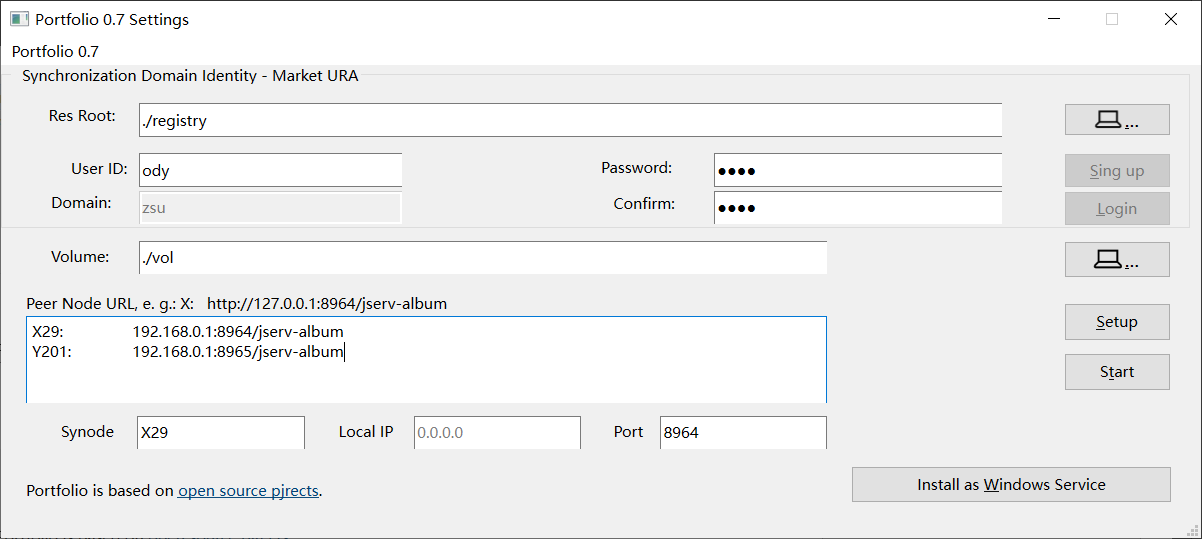
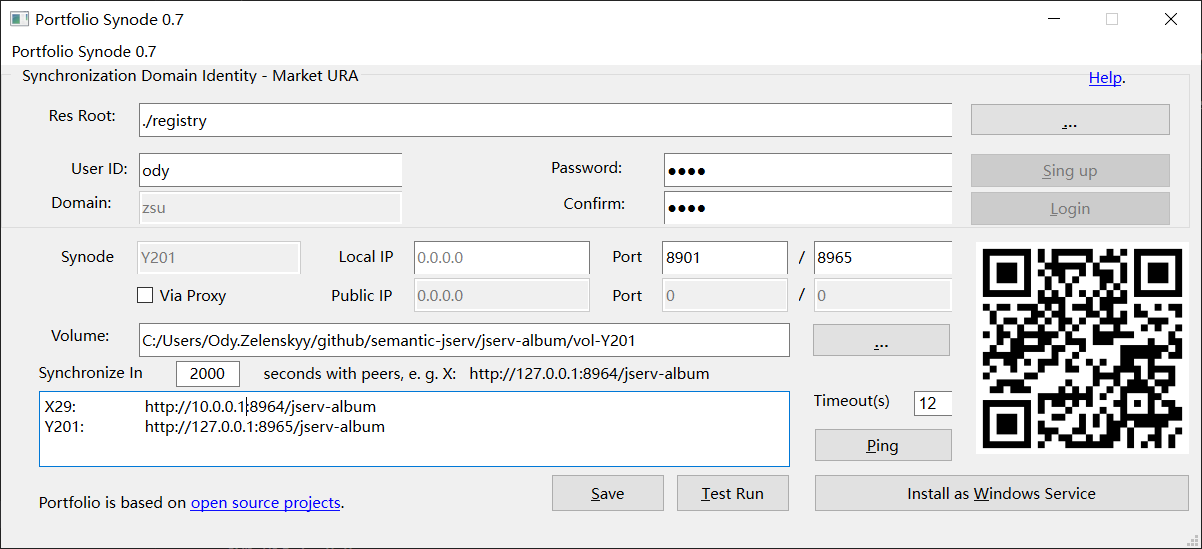
portfolio 0.7.5

diff --git a/products/portfolio/searchindex.js b/products/portfolio/searchindex.js
@@ -1,1 +1,1 @@
-Search.setIndex({"alltitles":{"About":[[0,null]],"About File Synchronization":[[3,null]],"About Volume":[[0,"about-volume"]],"Acceptance of terms":[[7,"acceptance-of-terms"]],"Android App Permissions":[[7,"android-app-permissions"]],"Android Client:":[[1,null],[8,null]],"Contacting Us":[[7,"contacting-us"]],"Contents:":[[6,null]],"Credits":[[5,null]],"Devices must be Identically Registered":[[3,"devices-must-be-identically-registered"]],"Does Protfolio use \u2018cookies\u2019?":[[7,"does-protfolio-use-cookies"]],"Download":[[0,"download"]],"EXIF & Geolocation":[[7,"exif-geolocation"]],"Indices and tables":[[6,"indices-and-tables"]],"Install Portfolio-synode":[[9,null]],"Install Steps":[[9,"install-steps"]],"Log Data":[[7,"log-data"]],"Portfolio Android Demo":[[1,null]],"Portfolio Privacy Policy":[[7,null]],"Portfolio Synode (Demo)":[[8,null]],"Prerequisit":[[2,"prerequisit"],[9,"prerequisit"]],"Quick Start":[[2,null]],"Safeguards and Third-party disclosure":[[7,"safeguards-and-third-party-disclosure"]],"Setup Protfolio Android":[[2,"setup-protfolio-android"]],"Some videos are not showing":[[4,"some-videos-are-not-showing"]],"Test in Browser":[[9,"test-in-browser"]],"Troubleshootings":[[4,null],[10,null]],"Uninstall Portfolio-synode":[[9,"uninstall-portfolio-synode"]],"Uninstall Windows Service Manually":[[9,"uninstall-windows-service-manually"]],"Upload files":[[2,"upload-files"]],"Welcome to Portfolio documentation!":[[6,null]]},"docnames":["about-download","android/index","android/quick-start","android/synode","android/trouble","credits","index","privacy-policy","synode/index","synode/setup","synode/trouble"],"envversion":{"sphinx":65,"sphinx.domains.c":3,"sphinx.domains.changeset":1,"sphinx.domains.citation":1,"sphinx.domains.cpp":9,"sphinx.domains.index":1,"sphinx.domains.javascript":3,"sphinx.domains.math":2,"sphinx.domains.python":4,"sphinx.domains.rst":2,"sphinx.domains.std":2},"filenames":["about-download.rst","android\\index.rst","android\\quick-start.rst","android\\synode.rst","android\\trouble.rst","credits.rst","index.rst","privacy-policy.rst","synode\\index.rst","synode\\setup.rst","synode\\trouble.rst"],"indexentries":{},"objects":{},"objnames":{},"objtypes":{},"terms":{"":[0,3,7,9],"0":[0,2,7,9],"04":10,"05":7,"1":[5,9],"10":4,"12":5,"127":9,"17":[2,5,9],"179274":10,"2":9,"2016":5,"2025":7,"24":10,"264":4,"3":[2,9,10],"4":[5,9],"6128543":7,"7":[0,2,7,9],"8":5,"8900":9,"8964":9,"9":[2,9,10],"A":[0,3,4],"And":9,"By":7,"For":[9,10],"If":[7,9,10],"In":[2,9],"It":9,"Or":9,"The":[2,3,4,7,9],"Then":9,"There":9,"These":7,"To":[7,9,10],"about":[1,6,7],"abov":7,"access":[7,9],"accord":7,"actur":9,"ad":7,"add":2,"address":7,"administr":[2,9],"admob":7,"adsens":7,"advanc":7,"advertis":7,"after":7,"agre":[0,7],"ahndord":4,"album":[2,7,9],"all":[3,7],"allow":[7,10],"alon":9,"also":[0,3,7,9],"although":0,"alwai":7,"an":[0,2,7],"analyt":7,"android":[0,4,5,6,9],"ani":[7,9],"anoth":0,"anson":[9,10],"answer":7,"anymor":9,"anywher":7,"apach":5,"app":0,"applic":7,"appropri":7,"apt":9,"ar":[0,1,3,7,9],"argument":9,"ask":[7,9],"audio":7,"automat":3,"avail":9,"avoid":10,"awar":9,"back":2,"bash":9,"been":[3,7],"behind":9,"being":7,"below":[7,9],"better":[4,7],"between":3,"bin":9,"brows":7,"browser":[4,7,8],"built":5,"button":[2,9],"call":[3,7],"camera":7,"can":[0,3,7,9,10],"cannot":4,"captur":7,"care":0,"carefulli":7,"case":7,"caus":0,"cd":9,"chang":[0,3,7,9],"check":[7,9],"clear":7,"cli":9,"click":9,"client":[0,2,3,7,9],"cmd":9,"code":[7,9,10],"codec":4,"collect":7,"com":7,"come":4,"command":[9,10],"commit":7,"compil":7,"compli":7,"comput":[0,2],"concern":7,"configur":[7,9,10],"confirm":9,"connect":[7,9],"consid":3,"context":7,"continu":7,"control":9,"convert":4,"copyright":5,"correctli":7,"could":10,"credit":6,"current":[0,7,9],"daemon":5,"data":[0,9],"databas":[3,7],"date":7,"default":9,"defend":10,"delet":9,"demo":[0,6,7,9],"deploi":2,"describ":7,"design":[3,7],"detail":7,"develop":9,"devic":[1,2,7],"dialog":9,"dir":9,"discurag":10,"distinguish":2,"distinguishd":3,"do":[0,7],"doc":10,"docker":5,"document":[0,5,9],"doesn":7,"domain":2,"don":[0,9],"download":[6,9],"dure":9,"e":[4,7,9,10],"each":[7,9],"ee8":5,"en":7,"enabl":10,"enforc":7,"ensur":7,"error":[7,10],"everyth":9,"except":7,"excut":2,"exiftool":[5,9],"experi":7,"export":10,"extern":7,"extra":10,"fail":10,"famili":[2,7],"featur":7,"field":9,"file":[0,1,7,9],"filepick":5,"filewal":10,"find":10,"firewal":[9,10],"floder":9,"folder":[0,9],"follow":[7,9],"format":7,"foundat":5,"free":5,"freewar":5,"from":[2,3,7,9,10],"full":[3,7],"fulli":10,"function":[7,9],"further":7,"futur":[4,9],"g":[4,7,9,10],"get":7,"glide":5,"gmail":7,"go":[2,9],"googl":7,"grant":7,"group":7,"gtk_path":10,"guarante":7,"gui":9,"h":4,"h30":4,"ha":[3,7],"handl":7,"happen":3,"harvei":5,"have":[7,9,10],"help":7,"henc":7,"here":0,"hhuawei":4,"hidden":9,"hl":7,"home":[2,4,9],"how":[2,7],"howev":7,"html":9,"http":[7,9,10],"hvc1":4,"i":[0,2,3,4,5,7,9,10],"id":[2,3,9],"ident":1,"identifi":7,"imag":[5,7],"import":7,"includ":[0,7],"index":[6,10],"indic":7,"individu":7,"inform":7,"instal":[2,7,8,10],"intend":7,"internet":7,"ip":7,"issu":9,"its":[3,7],"j":5,"jar":9,"java":9,"jdk":[2,5,9],"jetti":5,"jserv":[2,9],"json":9,"know":7,"last":7,"lastest":9,"law":7,"leav":9,"licens":[0,5],"like":[4,9,10],"linux":[9,10],"list":9,"listen":9,"loader":5,"locat":[0,7,9],"login":[2,9],"m":[9,10],"mai":7,"make":[9,10],"manag":[0,7],"manual":8,"march":7,"market":7,"materi":5,"media":7,"menu":9,"metadata":7,"microsoft":10,"mobil":3,"mode":3,"modif":0,"modul":[6,9,10],"most":4,"move":0,"mozilla":5,"multityp":5,"must":[0,1,2,9],"name":[2,3,7,9],"necessari":7,"need":9,"network":[7,10],"new":[3,7],"node":[0,3,5,9],"non":[7,9],"none":10,"notic":7,"now":9,"number":9,"odi":7,"offlin":3,"ok":9,"onc":[2,4,9],"onli":[3,7,9,10],"onlin":7,"open":[2,4,5,9],"oper":7,"optim":7,"option":7,"org":10,"other":7,"otherwis":7,"our":7,"outsid":7,"own":7,"packag":[9,10],"page":[2,4,6,9],"panel":9,"pars":7,"part":7,"password":[2,9],"path":[3,9],"pdf":5,"peopl":7,"perform":7,"period":7,"permiss":9,"person":[0,2,5,7],"phil":5,"phone":7,"photo":7,"photoview":5,"pii":7,"pip":[9,10],"pip3":10,"place":7,"plai":7,"plan":7,"pleas":[2,7,9,10],"polici":6,"port":[9,10],"portfolio":[0,2,3,4,5,10],"posit":7,"prerequisit":[1,8],"previou":10,"principl":7,"privaci":6,"privat":2,"process":[7,9],"product":7,"program":2,"project":[5,9],"properti":7,"protect":7,"protfolio":[0,1,9],"protocol":7,"provid":7,"publish":10,"purpos":7,"put":7,"py":9,"py3":[9,10],"pypi":10,"python":[2,9,10],"python3":[9,10],"qr":[7,9],"question":7,"quick":1,"react":5,"read":7,"reason":4,"recognit":7,"recommend":[4,9],"record":7,"refer":7,"refresh":9,"regard":7,"regist":[1,9],"registri":9,"regularli":7,"reinstal":3,"relea":9,"releas":[2,7],"remov":10,"replac":9,"report":[7,10],"request":7,"requir":[2,7,9,10],"resourc":3,"responsibli":7,"restor":3,"result":[0,10],"revis":7,"right":7,"run":[0,2,9,10],"safe":9,"safeti":7,"sai":9,"satisfi":10,"save":[0,7,9],"scan":[7,9],"search":6,"section":7,"secur":7,"see":[2,9],"select":2,"sell":7,"sent":7,"separ":9,"seric":9,"serv":7,"server":[0,2,5,7,9],"servic":[0,2,7,8],"set":[0,2,7,10],"setup":[1,9],"share":7,"should":9,"show":[1,9],"side":7,"simpl":10,"singl":7,"so":7,"softwar":0,"sole":7,"solut":4,"some":[1,9],"sourc":[2,5],"specifi":[0,9],"src":9,"srv":9,"srvname":9,"stand":9,"start":[1,9],"startup":9,"state":7,"statist":7,"step":8,"still":[0,9,10],"storag":7,"store":7,"strongli":10,"successfulli":[2,9],"sudo":9,"sum":7,"support":[4,7],"sure":[9,10],"switch":0,"synchron":[0,1,5,7,9],"synod":[2,3,6,10],"synode_py3":9,"synodepy3":9,"system":[0,7],"t":[0,7,9],"take":0,"tap":2,"tcp":9,"team":7,"termin":[9,10],"termnial":9,"test":[8,10],"thei":7,"thi":[2,4,7,9,10],"those":7,"through":7,"time":[7,9],"tomcat":5,"top":9,"trade":7,"transfer":7,"transmiss":7,"treat":7,"troubleshoot":[1,8,9],"try":7,"two":9,"ubuntu":10,"ui":[5,9],"understand":7,"uninstal":[8,10],"uniqu":2,"unless":7,"unspecifi":0,"untouch":9,"unzip":9,"up":[0,2,7],"updat":[4,7],"upload":[0,1,7,9],"url":[9,10],"us":[2,3,4,9],"usag":7,"user":[0,2,7,9],"usual":[0,2],"util":7,"v":[0,9,10],"variou":2,"ver":9,"version":[0,4,7,9,10],"video":[1,7],"viewer":5,"visit":9,"volum":9,"wa":7,"want":7,"we":7,"web":[4,7,9],"webpag":9,"were":9,"what":7,"when":7,"whenev":7,"where":9,"which":[0,2,4,7,9,10],"while":[0,9],"whl":9,"who":7,"window":[7,8,10],"within":0,"won":7,"work":[3,4,7,9],"x29":9,"you":[0,7,9,10],"your":[7,9,10],"zhou":7,"zip":[2,9],"zxing":5},"titles":["About","Portfolio Android Demo","Quick Start","About File Synchronization","Troubleshootings","Credits","Welcome to Portfolio documentation!","Portfolio Privacy Policy","Portfolio Synode (Demo)","Install Portfolio-synode","Troubleshootings"],"titleterms":{"about":[0,3],"accept":7,"android":[1,2,7,8],"app":7,"ar":4,"browser":9,"client":[1,8],"contact":7,"content":6,"cooki":7,"credit":5,"data":7,"demo":[1,8],"devic":3,"disclosur":7,"document":6,"doe":7,"download":0,"exif":7,"file":[2,3],"geoloc":7,"ident":3,"indic":6,"instal":9,"log":7,"manual":9,"must":3,"parti":7,"permiss":7,"polici":7,"portfolio":[1,6,7,8,9],"prerequisit":[2,9],"privaci":7,"protfolio":[2,7],"quick":2,"regist":3,"safeguard":7,"servic":9,"setup":2,"show":4,"some":4,"start":2,"step":9,"synchron":3,"synod":[8,9],"tabl":6,"term":7,"test":9,"third":7,"troubleshoot":[4,10],"u":7,"uninstal":9,"upload":2,"us":7,"video":4,"volum":0,"welcom":6,"window":9}})
+Search.setIndex({"alltitles":{"About":[[0,null]],"About File Synchronization":[[3,null]],"About Volume":[[0,"about-volume"]],"Acceptance of terms":[[7,"acceptance-of-terms"]],"Android App Permissions":[[7,"android-app-permissions"]],"Android Client:":[[1,null],[8,null]],"Contacting Us":[[7,"contacting-us"]],"Contents:":[[6,null]],"Credits":[[5,null]],"Devices must be Identically Registered":[[3,"devices-must-be-identically-registered"]],"Does Protfolio use \u2018cookies\u2019?":[[7,"does-protfolio-use-cookies"]],"Download":[[0,"download"]],"EXIF & Geolocation":[[7,"exif-geolocation"]],"Indices and tables":[[6,"indices-and-tables"]],"Install Portfolio-synode":[[9,null]],"Log Data":[[7,"log-data"]],"Portfolio Android Demo":[[1,null]],"Portfolio Privacy Policy":[[7,null]],"Portfolio Synode (Demo)":[[8,null]],"Prerequisit":[[2,"prerequisit"],[9,"prerequisit"]],"Quick Start":[[2,null]],"Safeguards and Third-party disclosure":[[7,"safeguards-and-third-party-disclosure"]],"Setting up Synodes":[[9,"setting-up-synodes"]],"Setup Protfolio Android":[[2,"setup-protfolio-android"]],"Some videos are not showing":[[4,"some-videos-are-not-showing"]],"Test in Browser":[[9,"test-in-browser"]],"The Topology":[[0,"the-topology"]],"Troubleshootings":[[4,null],[10,null]],"Uninstall Portfolio-synode":[[9,"uninstall-portfolio-synode"]],"Uninstall Windows Service Manually":[[9,"uninstall-windows-service-manually"]],"Upload files":[[2,"upload-files"]],"Welcome to Portfolio documentation!":[[6,null]]},"docnames":["about-download","android/index","android/quick-start","android/synode","android/trouble","credits","index","privacy-policy","synode/index","synode/setup","synode/trouble"],"envversion":{"sphinx":65,"sphinx.domains.c":3,"sphinx.domains.changeset":1,"sphinx.domains.citation":1,"sphinx.domains.cpp":9,"sphinx.domains.index":1,"sphinx.domains.javascript":3,"sphinx.domains.math":2,"sphinx.domains.python":4,"sphinx.domains.rst":2,"sphinx.domains.std":2},"filenames":["about-download.rst","android\\index.rst","android\\quick-start.rst","android\\synode.rst","android\\trouble.rst","credits.rst","index.rst","privacy-policy.rst","synode\\index.rst","synode\\setup.rst","synode\\trouble.rst"],"indexentries":{},"objects":{},"objnames":{},"objtypes":{},"terms":{"":[0,3,7,9],"0":[0,2,7,9],"04":10,"05":7,"1":[5,9],"10":[4,9],"12":5,"127":9,"17":[2,5,9],"179274":10,"2":[0,9],"20":9,"2016":5,"2025":7,"24":10,"264":4,"3":[2,9,10],"4":[5,9],"5":9,"6128543":7,"7":[0,2,7,9],"8":5,"8900":9,"8964":9,"9":[2,9,10],"A":[0,3,4],"And":9,"By":7,"For":[9,10],"If":[7,9,10],"In":[0,2,9],"It":9,"No":9,"Or":9,"The":[2,3,4,7,9],"Then":9,"There":[0,9],"These":7,"To":[7,9,10],"With":0,"about":[1,6,7,9],"abov":7,"access":[0,7,9],"accord":7,"accordingli":9,"actur":9,"ad":7,"add":2,"address":[7,9],"administr":[2,9],"admob":7,"adsens":7,"advanc":7,"advertis":7,"after":7,"agre":[0,7],"ahndord":4,"album":[2,7,9],"all":[3,7],"allow":[7,10],"alon":9,"also":[0,3,7,9],"although":0,"alwai":7,"an":[0,2,7],"analyt":7,"android":[0,4,5,6,9],"ani":[0,7,9],"anoth":0,"anson":[9,10],"answer":7,"anymor":9,"anywher":7,"apach":5,"app":0,"applic":7,"appropri":7,"apt":9,"ar":[0,1,3,7,9],"argument":9,"ask":[7,9],"audio":7,"autmat":[0,9],"automat":3,"avail":[0,9],"avoid":10,"awar":9,"back":2,"backbon":0,"background":0,"bash":9,"been":[3,7],"behind":9,"being":7,"below":[7,9],"better":[4,7],"between":[0,3],"bin":9,"brows":7,"browser":[4,7,8],"built":5,"button":[2,9],"call":[3,7],"camera":7,"can":[0,3,7,9,10],"cannot":4,"captur":7,"care":[0,9],"carefulli":7,"case":7,"caus":0,"cd":9,"central":[0,9],"chang":[0,3,7,9],"check":[7,9],"clear":7,"cli":9,"click":9,"client":[0,2,3,7,9],"cmd":9,"code":[7,9,10],"codec":4,"collect":7,"com":7,"come":4,"command":[9,10],"commit":7,"compil":7,"compli":7,"comput":[0,2],"concern":7,"configur":[7,9,10],"confirm":9,"connect":[0,7,9],"consid":3,"context":7,"continu":7,"control":9,"convert":4,"copyright":5,"correctli":[7,9],"could":10,"credit":6,"current":[0,7,9],"daemon":5,"data":[0,9],"databas":[0,3,7],"date":7,"default":9,"defend":10,"delet":9,"demo":[0,6,7,9],"deploi":[0,2],"describ":7,"design":[3,7],"detail":7,"detect":9,"develop":9,"devic":[1,2,7,9],"dialog":9,"dir":9,"discurag":10,"distinguish":2,"distinguishd":3,"do":[0,7],"doc":10,"docker":5,"document":[0,5,9],"doesn":7,"domain":[0,2],"don":[0,9],"download":[6,9],"dure":9,"e":[4,7,9,10],"each":[7,9],"ee8":5,"en":7,"enabl":10,"enforc":7,"ensur":7,"envar":9,"environ":0,"error":[7,10],"everyth":9,"except":7,"excut":2,"exiftool":[5,9],"experi":7,"export":10,"extern":7,"extra":10,"fail":10,"famili":[2,7],"featur":7,"field":9,"file":[0,1,7,9],"filepick":5,"filewal":10,"find":10,"firewal":[9,10],"floder":9,"folder":[0,9],"follow":[7,9],"format":[7,9],"found":9,"foundat":5,"free":5,"freewar":5,"from":[0,2,3,7,9,10],"full":[3,7],"fulli":10,"function":[7,9],"further":7,"futur":[4,9],"g":[4,7,9,10],"get":7,"glide":5,"gmail":7,"go":[2,9],"googl":7,"grant":7,"group":7,"gtk_path":10,"guarante":7,"gui":9,"h":4,"h30":4,"ha":[3,7],"handl":7,"happen":3,"harvei":5,"have":[7,9,10],"help":7,"henc":7,"here":0,"hhuawei":4,"hidden":9,"hl":7,"home":[2,4,9],"host":9,"how":[2,7],"howev":7,"html":9,"http":[7,9,10],"hub":[0,9],"hvc1":4,"i":[0,2,3,4,5,7,9,10],"id":[2,3,9],"ident":1,"identifi":7,"imag":[5,7],"import":7,"includ":[0,7],"index":[6,10],"indic":7,"individu":7,"inf":9,"inform":7,"instal":[2,7,8,10],"intend":7,"internet":[0,7,9],"ip":[7,9],"issu":9,"its":[3,7],"j":5,"jar":9,"java":9,"jdk":[2,5,9],"jetti":5,"jserv":[2,9],"json":9,"know":7,"last":7,"lastest":9,"law":7,"leav":9,"licens":[0,5],"like":[4,9,10],"line":9,"linux":[9,10],"list":9,"listen":9,"loader":5,"local":[0,9],"locat":[0,7,9],"login":[2,9],"m":[9,10],"mai":7,"make":[9,10],"manag":[0,7],"manual":8,"map":9,"march":7,"market":7,"materi":5,"mechan":0,"media":7,"menu":9,"metadata":7,"microsoft":10,"mobil":[0,3],"mode":3,"modif":0,"modifi":9,"modul":[6,9,10],"most":4,"move":0,"mozilla":5,"multipl":0,"multityp":5,"must":[0,1,2,9],"name":[2,3,7,9],"necessari":7,"need":9,"network":[0,7,10],"new":[3,7],"node":[0,3,5,9],"non":[7,9],"none":10,"notic":7,"now":9,"number":9,"odi":7,"offlin":3,"ok":9,"onc":[2,4,9],"one":0,"onli":[0,3,7,9,10],"onlin":7,"open":[2,4,5,9],"oper":7,"optim":7,"option":7,"org":10,"other":7,"otherwis":7,"our":7,"outsid":7,"own":7,"packag":[9,10],"page":[2,4,6,9],"panel":9,"pars":7,"part":7,"password":[2,9],"path":[3,9],"pdf":5,"peopl":7,"perform":7,"period":7,"permiss":9,"person":[0,2,5,7],"phil":5,"phone":7,"photo":7,"photoview":5,"pii":7,"pip":[9,10],"pip3":10,"place":7,"plai":7,"plan":7,"pleas":[2,7,9,10],"polici":6,"port":[9,10],"portfolio":[0,2,3,4,5,10],"posit":7,"prerequisit":[1,8],"previou":10,"principl":7,"privaci":6,"privat":[0,2,9],"process":[7,9],"product":7,"program":2,"project":[5,9],"properti":7,"protect":7,"protfolio":[0,1,9],"protocol":7,"provid":7,"proxi":9,"public":[0,9],"publish":10,"purpos":7,"put":7,"py":9,"py3":[9,10],"pypi":10,"python":[2,9,10],"python3":[9,10],"qr":[7,9],"question":7,"quick":1,"react":5,"read":7,"reason":4,"recognit":7,"recommend":[4,9],"record":7,"refer":7,"refresh":9,"regard":7,"regist":[1,9],"registri":9,"regularli":7,"reinstal":[3,9],"relat":0,"relea":9,"releas":[2,7],"remov":10,"replac":9,"report":[7,10],"request":7,"requir":[2,7,9,10],"resourc":3,"responsibli":7,"restor":3,"result":[0,10],"revers":9,"revis":7,"right":7,"ristric":0,"run":[0,2,9,10],"safe":9,"safeti":7,"sai":9,"sampl":9,"satisfi":10,"save":[0,7,9],"scan":[7,9],"search":6,"second":9,"section":7,"secur":7,"see":[2,9],"select":2,"sell":7,"sent":7,"separ":9,"seric":9,"serv":7,"server":[0,2,5,7,9],"servic":[0,2,7,8],"set":[0,2,7,8,10],"setup":[0,1,9],"share":7,"should":[0,9],"show":[1,9],"side":7,"simpl":10,"singl":7,"so":7,"softwar":0,"sole":7,"solut":4,"some":[1,9],"sour":9,"sourc":[2,5],"space":0,"specifi":[0,9],"src":9,"srv":9,"srvname":9,"stand":9,"start":[1,9],"startup":9,"state":7,"statist":7,"step":9,"still":[0,9,10],"storag":[0,7,9],"store":[0,7],"strongli":10,"successfulli":[2,9],"sudo":9,"sum":7,"support":[4,7],"sure":[9,10],"switch":0,"sync":9,"synchron":[0,1,5,7,9],"synod":[0,2,3,6,10],"synode_py3":9,"synodepy3":9,"system":[0,7],"t":[0,7,9],"tab":9,"take":0,"tap":2,"tcp":9,"team":7,"termin":[9,10],"termnial":9,"test":[8,10],"thei":7,"thi":[2,4,7,9,10],"those":7,"through":7,"time":[7,9],"tomcat":5,"top":9,"trade":7,"transfer":7,"transmiss":7,"treat":7,"troubleshoot":[1,8,9],"try":7,"two":9,"typic":[0,9],"ubuntu":10,"ui":[5,9],"understand":7,"uninstal":[8,10],"uniqu":2,"unless":7,"unreali":0,"unspecifi":0,"untouch":9,"unzip":9,"up":[0,2,7,8],"updat":[4,7],"upload":[0,1,7,9],"url":[9,10],"us":[0,2,3,4,9],"usag":7,"user":[0,2,7,9],"usual":[0,2],"util":7,"v":[0,9,10],"variou":2,"ver":9,"version":[0,4,7,9,10],"video":[1,7],"viewer":5,"visit":9,"volum":9,"wa":7,"want":7,"we":7,"web":[4,7,9],"webpag":9,"webroot_201":9,"were":9,"what":7,"when":7,"whenev":7,"where":9,"which":[0,2,4,7,9,10],"while":[0,9],"whl":9,"who":7,"window":[7,8,10],"winsrv":9,"within":0,"won":7,"work":[3,4,7,9],"x29":[0,9],"y201":[0,9],"you":[0,7,9,10],"your":[7,9,10],"zhou":7,"zip":[2,9],"zsu":0,"zxing":5},"titles":["About","Portfolio Android Demo","Quick Start","About File Synchronization","Troubleshootings","Credits","Welcome to Portfolio documentation!","Portfolio Privacy Policy","Portfolio Synode (Demo)","Install Portfolio-synode","Troubleshootings"],"titleterms":{"The":0,"about":[0,3],"accept":7,"android":[1,2,7,8],"app":7,"ar":4,"browser":9,"client":[1,8],"contact":7,"content":6,"cooki":7,"credit":5,"data":7,"demo":[1,8],"devic":3,"disclosur":7,"document":6,"doe":7,"download":0,"exif":7,"file":[2,3],"geoloc":7,"ident":3,"indic":6,"instal":9,"log":7,"manual":9,"must":3,"parti":7,"permiss":7,"polici":7,"portfolio":[1,6,7,8,9],"prerequisit":[2,9],"privaci":7,"protfolio":[2,7],"quick":2,"regist":3,"safeguard":7,"servic":9,"set":9,"setup":2,"show":4,"some":4,"start":2,"synchron":3,"synod":[8,9],"tabl":6,"term":7,"test":9,"third":7,"topologi":0,"troubleshoot":[4,10],"u":7,"uninstal":9,"up":9,"upload":2,"us":7,"video":4,"volum":0,"welcom":6,"window":9}})

diff --git a/products/portfolio/synode/setup.html b/products/portfolio/synode/setup.html
@@ -50,7 +50,7 @@
 <li class="toctree-l1 current"><a class="reference internal" href="index.html">Portfolio Synode (Demo)</a><ul class="current">
 <li class="toctree-l2 current"><a class="current reference internal" href="#">Install Portfolio-synode</a><ul>
 <li class="toctree-l3"><a class="reference internal" href="#prerequisit">Prerequisit</a></li>
-<li class="toctree-l3"><a class="reference internal" href="#install-steps">Install Steps</a></li>
+<li class="toctree-l3"><a class="reference internal" href="#setting-up-synodes">Setting up Synodes</a></li>
 </ul>
 </li>
 <li class="toctree-l2"><a class="reference internal" href="#test-in-browser">Test in Browser</a></li>
@@ -108,8 +108,8 @@
 </div>
 <p>Please make sure your JDK is running.</p>
 </section>
-<section id="install-steps">
-<h2>Install Steps<a class="headerlink" href="#install-steps" title="Link to this heading"></a></h2>
+<section id="setting-up-synodes">
+<h2>Setting up Synodes<a class="headerlink" href="#setting-up-synodes" title="Link to this heading"></a></h2>
 <ol class="arabic">
 <li><p>Download <a class="reference external" href="https://github.com/odys-z/semantic-jserv/releases/download/portfolio-synode-0.7.0/registry.zip">synode registry, registry.zip</a>
 from <a class="reference external" href="https://github.com/odys-z/semantic-jserv/releases/tag/portfolio-synode-0.7.0">the project’s releas page</a>.</p>
@@ -146,14 +146,31 @@ or check lastest version at
 <li><p>Click the top button for opening registry dir.</p>
 <p><em>User Id, password and Login function are not available in demo version. Leave the fields untouched.</em></p>
 </li>
-<li><p>Click <em>Setup</em> if everything is OK.</p></li>
-<li><p>Click <em>Start</em>. The data service should be running now.</p>
+<li><p>Set local web page service port and data service port, e.g. 8900/8964. The local Ip is detected autmatically.</p>
+<p>Check reverse proxy only if the host is mapped from a public Internet address.</p>
+</li>
+<li><p>Modify Jservs’ URL</p>
+<p>If is setting a public address, say central hub node, leave <em>Sync-in</em> as 0 seconds.
+No need to care about jservs, but make soure the reverse proxy is set correctly, e.g.</p>
+<div class="highlight-default notranslate"><div class="highlight"><pre><span></span><span class="mf">10.0.0.1</span>   <span class="mi">8900</span> <span class="o">/</span> <span class="mi">8964</span>
+</pre></div>
+</div>
+<p>If is setting a local service node, say your private storage device,
+set <em>Sync-in</em> to typically 20 seconds, and setting the hub nodes IP to it’s public address,
+using the data service port, e.g.</p>
+<div class="highlight-default notranslate"><div class="highlight"><pre><span></span><span class="n">X29</span><span class="p">:</span> <span class="o">&lt;</span><span class="n">tab</span><span class="o">&gt;</span>  <span class="n">http</span><span class="p">:</span><span class="o">//</span><span class="mf">10.0.0.1</span><span class="p">:</span><span class="mi">8964</span><span class="o">/</span><span class="n">jserv</span><span class="o">-</span><span class="n">album</span>
+</pre></div>
+</div>
+<p><strong>Don not change the line format</strong></p>
+</li>
+<li><p>Click <em>Save</em> if everything is OK.</p></li>
+<li><p>Click <em>Test Run</em>. The data service (Synode) should be running now.</p>
 <p>Or run “java -jar bin/jserv-album-#.#.#.jar” in the folder.</p>
 </li>
 </ul>
 <p>There should be a QR Code showing in the GUI. You can scan with a Portfolio
 client, e.g. the Portfolio Android, to connect to this service node.</p>
-<a class="reference internal image-reference" href="../_images/00-portfolio-synode.png"><img alt="../_images/00-portfolio-synode.png" src="../_images/00-portfolio-synode.png" style="width: 300px;" />
+<a class="reference internal image-reference" href="../_images/00-portfolio-synode.png"><img alt="../_images/00-portfolio-synode.png" src="../_images/00-portfolio-synode.png" style="width: 24em;" />
 </a>
 </div></blockquote>
 </li>
@@ -176,7 +193,7 @@ and port 8900, the web page server.</p>
 </div></blockquote>
 </li>
 </ul>
-<a class="reference internal image-reference" href="../_images/07-portfolio-web.png"><img alt="../_images/07-portfolio-web.png" src="../_images/07-portfolio-web.png" style="width: 300px;" />
+<a class="reference internal image-reference" href="../_images/07-portfolio-web.png"><img alt="../_images/07-portfolio-web.png" src="../_images/07-portfolio-web.png" style="width: 24em;" />
 </a>
 </div></blockquote>
 </li>
@@ -246,6 +263,18 @@ py<span class="w"> </span>-m<span class="w"> </span>src.synodepy3.cli<span class
 </li>
 <li><p>Refresh the Windows Service Control Panel if needed.</p></li>
 </ol>
+<div class="admonition tip">
+<p class="admonition-title">Tip</p>
+<p>If the WEB-INF/settings.json file is not found, reinstall the Portfolio-synode and change winsrv.synode and winsrv.web accordingly.</p>
+<p>Sample:</p>
+<div class="highlight-default notranslate"><div class="highlight"><pre><span></span><span class="s2">&quot;envars&quot;</span><span class="p">:</span> <span class="p">{</span>
+    <span class="s2">&quot;WEBROOT_201&quot;</span><span class="p">:</span> <span class="s2">&quot;Y201&quot;</span><span class="p">,</span>
+    <span class="s2">&quot;winsrv.synode&quot;</span><span class="p">:</span> <span class="s2">&quot;Synode-0.7.5-Y201&quot;</span><span class="p">,</span>
+    <span class="s2">&quot;winsrv.web&quot;</span><span class="p">:</span> <span class="s2">&quot;Synode.web-0.4.1-Y201&quot;</span>
+<span class="p">},</span>
+</pre></div>
+</div>
+</div>
 </section>
 </section>
 

diff --git a/products/portfolio/about-download.html b/products/portfolio/about-download.html
@@ -45,6 +45,7 @@
               <p class="caption" role="heading"><span class="caption-text">Contents:</span></p>
 <ul class="current">
 <li class="toctree-l1 current"><a class="current reference internal" href="#">About</a><ul>
+<li class="toctree-l2"><a class="reference internal" href="#the-topology">The Topology</a></li>
 <li class="toctree-l2"><a class="reference internal" href="#about-volume">About Volume</a></li>
 </ul>
 </li>
@@ -81,9 +82,23 @@
   <section id="about">
 <h1>About<a class="headerlink" href="#about" title="Link to this heading"></a></h1>
 <p>Portfolio is a system for manage, synchronizing personal documents, including an
-Android client App and a server node.</p>
+Android client App and multiple deployed server nodes.</p>
 <p>Protfolio is currently a demo version. Users must take care of their files
 uploaded to the server, usually a personal computer.</p>
+<section id="the-topology">
+<h2>The Topology<a class="headerlink" href="#the-topology" title="Link to this heading"></a></h2>
+<p>Typically, there should be a central hub node, which is a public server
+accessible from the Internet, and multiple service nodes, which are private servers
+running in local networks. The hub node is used for synchronizing data between service nodes,
+and the service nodes are used for storing data uploaded by clients. The hub node
+is usually available with ristricated storage space.</p>
+<p>There are also mobile clients, such as the Portfolio Android App, which can
+connect to any service nodes and upload files. Files is autmatically synchronized in background.</p>
+<p>With a backbone of relational database synchronization mechanism, Portfolio
+can running in an unrealiable network environment.</p>
+<p>In 0.7.#, the demo version, there is only one synchronization domain, ‘zsu’, available,
+and only 2 Synodes, X29 as the hub node and Y201 as the local node can be setup.</p>
+</section>
 <section id="about-volume">
 <h2>About Volume<a class="headerlink" href="#about-volume" title="Link to this heading"></a></h2>
 <p>A volume is a folder within the server’s file system, which is specified by the user

diff --git a/products/portfolio/synode/index.html b/products/portfolio/synode/index.html
@@ -88,7 +88,7 @@
 <ul>
 <li class="toctree-l1"><a class="reference internal" href="setup.html">Install Portfolio-synode</a><ul>
 <li class="toctree-l2"><a class="reference internal" href="setup.html#prerequisit">Prerequisit</a></li>
-<li class="toctree-l2"><a class="reference internal" href="setup.html#install-steps">Install Steps</a></li>
+<li class="toctree-l2"><a class="reference internal" href="setup.html#setting-up-synodes">Setting up Synodes</a></li>
 </ul>
 </li>
 <li class="toctree-l1"><a class="reference internal" href="setup.html#test-in-browser">Test in Browser</a></li>

diff --git a/sphinx/products/portfolio/source/synode/setup.rst b/sphinx/products/portfolio/source/synode/setup.rst
@@ -25,8 +25,8 @@ The services are acturally started by command::
 
 Please make sure your JDK is running.
 
-Install Steps
--------------
+Setting up Synodes
+------------------
 
 #. Download `synode registry, registry.zip <https://github.com/odys-z/semantic-jserv/releases/download/portfolio-synode-0.7.0/registry.zip>`_
    from `the project's releas page <https://github.com/odys-z/semantic-jserv/releases/tag/portfolio-synode-0.7.0>`_.
@@ -69,10 +69,29 @@ Install Steps
     - Click the top button for opening registry dir.
 
       *User Id, password and Login function are not available in demo version. Leave the fields untouched.*
+    
+    - Set local web page service port and data service port, e.g. 8900/8964. The local Ip is detected autmatically.
 
-    - Click *Setup* if everything is OK.
+      Check reverse proxy only if the host is mapped from a public Internet address. 
+    
+    - Modify Jservs' URL
+
+      If is setting a public address, say central hub node, leave *Sync-in* as 0 seconds.
+      No need to care about jservs, but make soure the reverse proxy is set correctly, e.g. ::
+
+        10.0.0.1   8900 / 8964
+
+      If is setting a local service node, say your private storage device,
+      set *Sync-in* to typically 20 seconds, and setting the hub nodes IP to it's public address,
+      using the data service port, e.g. ::
+
+        X29: <tab>  http://10.0.0.1:8964/jserv-album
+
+      **Don not change the line format**
+
+    - Click *Save* if everything is OK.
  
-    - Click *Start*. The data service should be running now.
+    - Click *Test Run*. The data service (Synode) should be running now.
 
       Or run "java -jar bin/jserv-album-#.#.#.jar" in the folder.
      
@@ -80,7 +99,7 @@ Install Steps
     client, e.g. the Portfolio Android, to connect to this service node.
 
     .. image:: ../imgs/00-portfolio-synode.png
-        :width: 300px
+        :width: 24em
 
 #. Test Run
 
@@ -98,7 +117,7 @@ Install Steps
         There should be the files once are uploaded with Portfolio Android.
 
     .. image:: ../../../album/source/imgs/07-portfolio-web.png
-        :width: 300px
+        :width: 24em
 
 #. Install Windows Services
 
@@ -172,3 +191,13 @@ If you have to uninstall the Windows service manually, please follow the steps b
       py -m src.synodepy3.cli uninstall-srvname Synode-#.#.#-ID 
 
 #. Refresh the Windows Service Control Panel if needed.
+
+.. tip:: If the WEB-INF/settings.json file is not found, reinstall the Portfolio-synode and change winsrv.synode and winsrv.web accordingly.
+
+    Sample::
+
+        "envars": {
+            "WEBROOT_201": "Y201",
+            "winsrv.synode": "Synode-0.7.5-Y201",
+            "winsrv.web": "Synode.web-0.4.1-Y201"
+        },

diff --git a/sphinx/products/portfolio/source/about-download.rst b/sphinx/products/portfolio/source/about-download.rst
@@ -2,10 +2,28 @@ About
 =====
 
 Portfolio is a system for manage, synchronizing personal documents, including an
-Android client App and a server node.
+Android client App and multiple deployed server nodes.
 
 Protfolio is currently a demo version. Users must take care of their files
 uploaded to the server, usually a personal computer.
+
+The Topology
+------------
+
+Typically, there should be a central hub node, which is a public server
+accessible from the Internet, and multiple service nodes, which are private servers
+running in local networks. The hub node is used for synchronizing data between service nodes,
+and the service nodes are used for storing data uploaded by clients. The hub node
+is usually available with ristricated storage space. 
+
+There are also mobile clients, such as the Portfolio Android App, which can
+connect to any service nodes and upload files. Files is autmatically synchronized in background.
+
+With a backbone of relational database synchronization mechanism, Portfolio
+can running in an unrealiable network environment. 
+
+In 0.7.#, the demo version, there is only one synchronization domain, 'zsu', available,
+and only 2 Synodes, X29 as the hub node and Y201 as the local node can be setup.
 
 About Volume
 ------------
